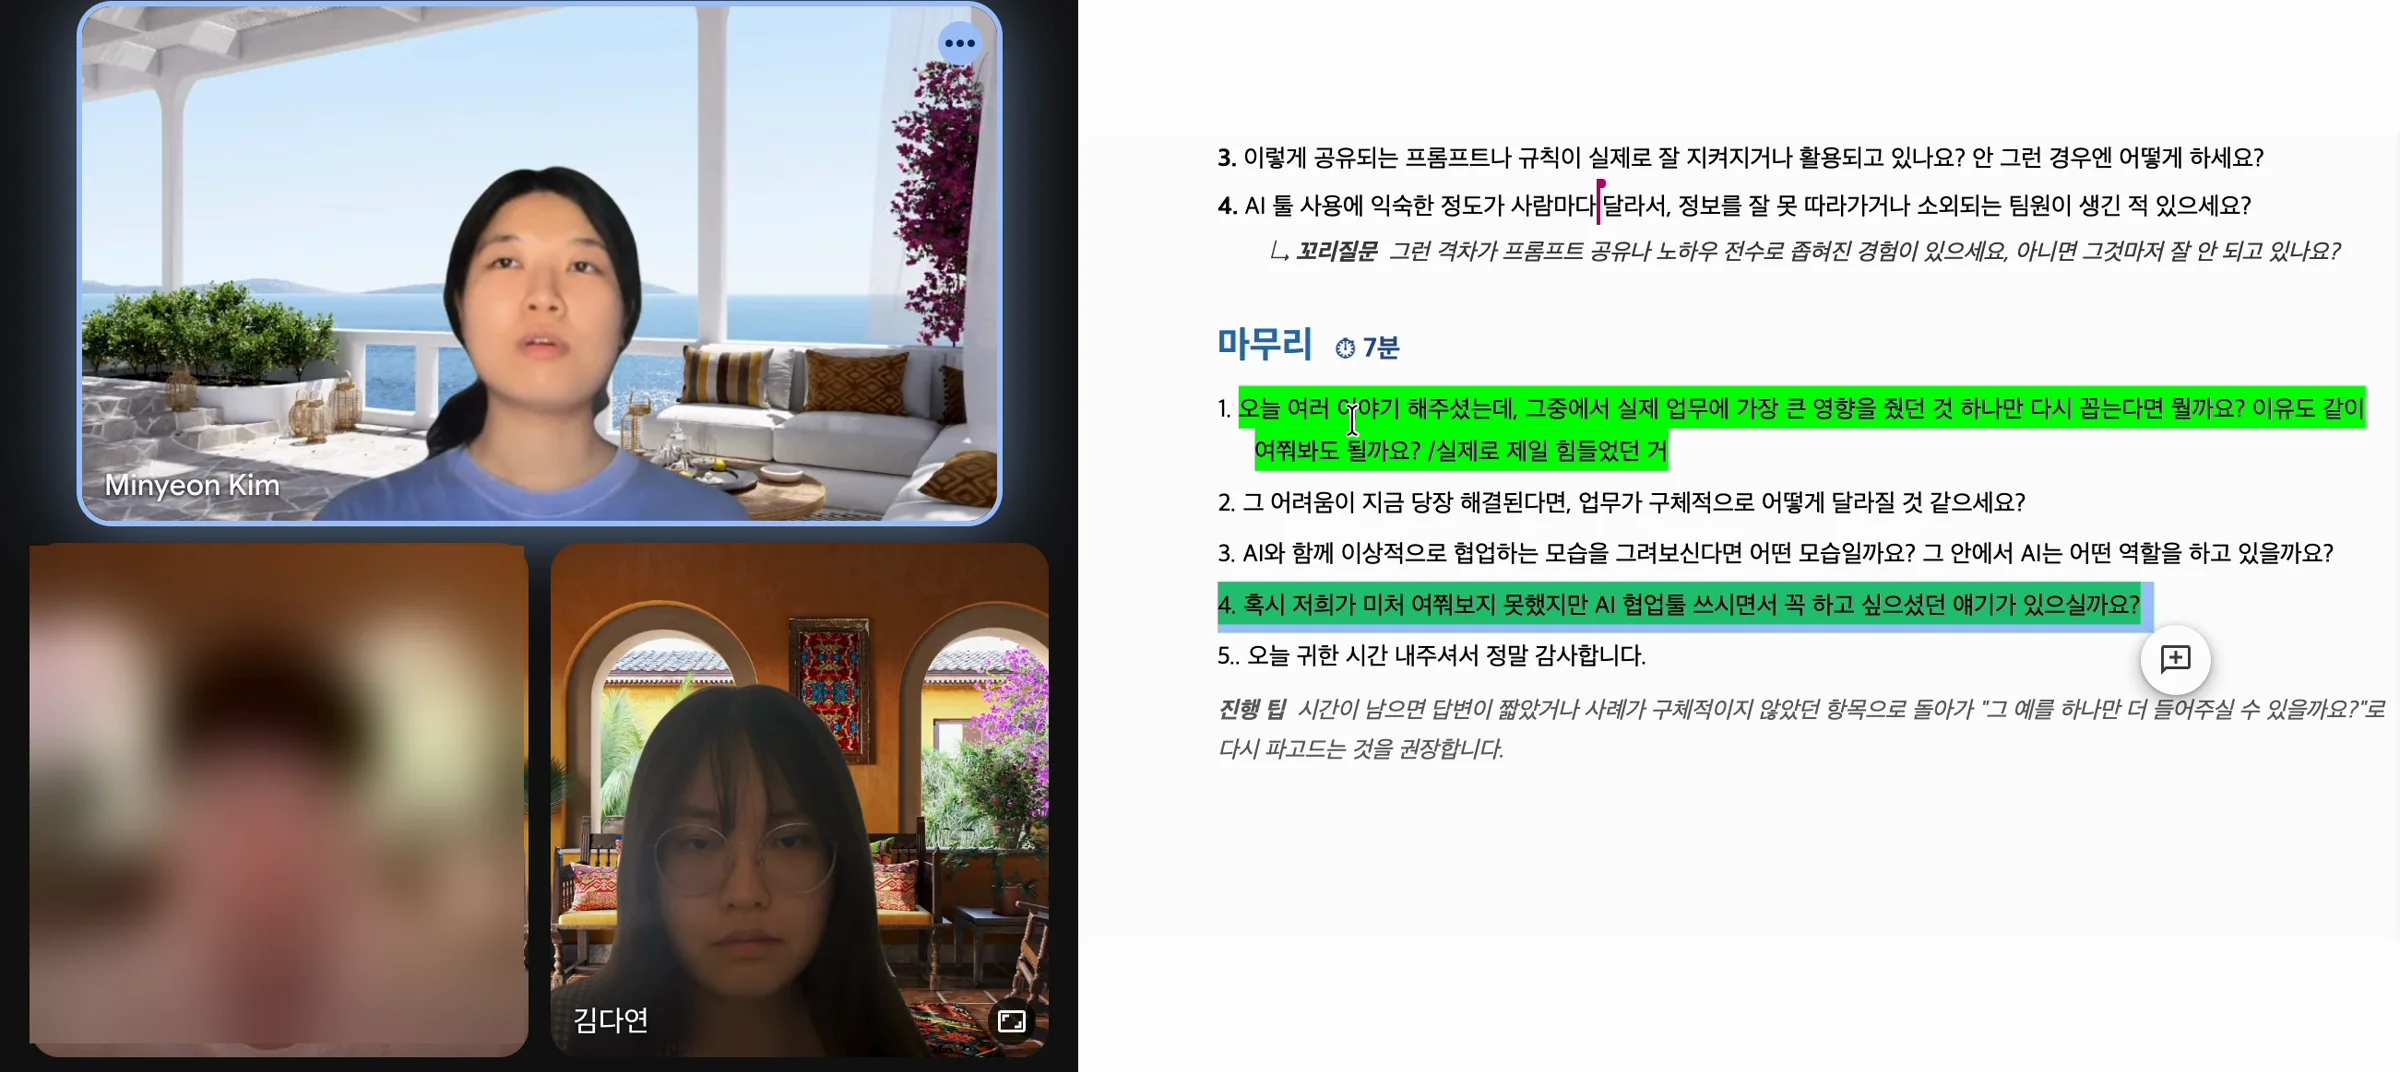
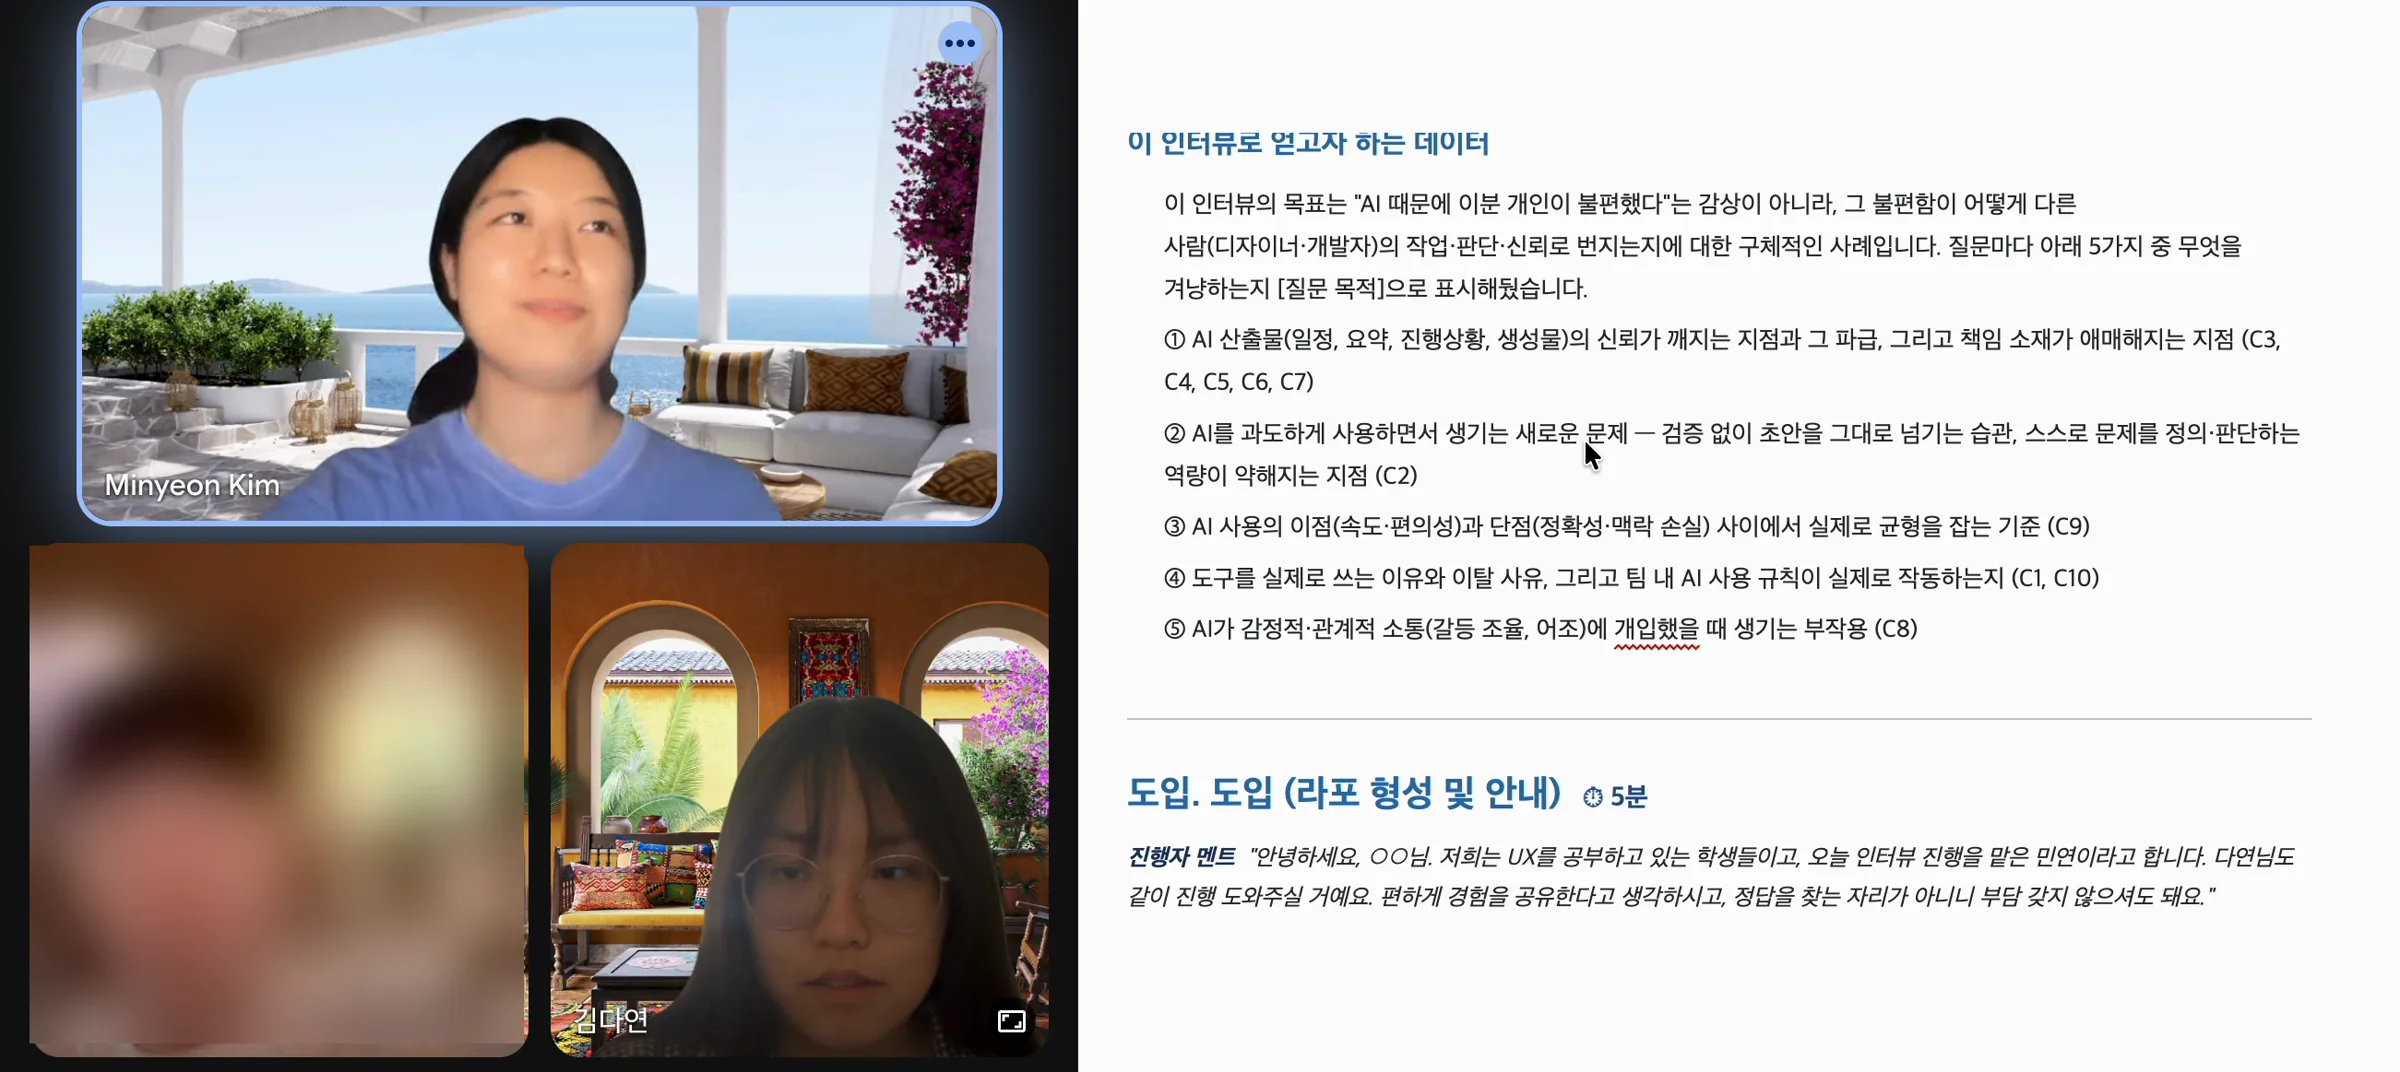
Devsign interview image: smiling moment, guide's research aims beside it

diff --git a/claude.md b/claude.md
@@ -1186,5 +1186,5 @@ Devsign user flow is one main path (owner: 21 equal boxes still weren't easy; re
 
 Review pass against references (2026-11-04; owner skipped role split and resume for now, not ready). Text never depends on scroll position: scroll-linked opacity and fill are off for funnel, community columns, Analysis sentences, research questions and headlines (blocks arrive once through the reveal units, which supersedes the statement fill and the row and count scroll notes); parallax and the board and photo scroll grows are off too. Still tied to scroll: stage opening, section title (done once fully on screen), data bars, Problem statement scale, pinned reels and Iteration 2. Stage nav steps aside while scrolling down and returns on any scroll up (`data-away`, keyboard focus keeps it). What isn't current drops to the muted colour, never to low opacity, so it stays AA (Key problem rows, core feature sentences; supersedes the 55% and 0.28 values). Landing: the first case's card shows by default on desktop too (not over About hover or the portrait); phones paint the headline at once with no typing or scramble (typing needs JS and held LCP back; supersedes the scramble rule below 48rem); dust starts when the page is idle, on phones 1.2s after load; only the case opener preloads its loop. Process boards dim in the dark theme (value canvas, affinity board), the tool table's "What we didn't find" is a tint, the Takeaway photo is 640px, stage padding 160 (phones 96), About's deck 220-300px. Phones: the IA shows nodes only, affinity themes show name and insight without stickies, pills are opaque. Korean Devsign block labels are in Korean; chapter names stay English. Figma not updated.
 
-Devsign interview image is a real capture from the 2026-08-24 20:02 recording at 37:19, a moment with the moderators' eyes open (~/Movies/인터뷰_UT_녹화본, kept outside the repo; naming project_type_date_time, KST): Meet tiles beside the question guide, 2400×1072, browser chrome, meeting title and storage banner cropped out. Only the participant's tile and name are blurred (owner's call); Minyeon and 김다연 are shown. Replaces the earlier example image. Figma not updated.
+Devsign interview image is a real capture from the 2026-08-24 20:02 recording at 1:35, a moment with Minyeon smiling (her eyes open; 김다연 looks down, no moment found with both smiling), beside the guide's research aims and opening script (~/Movies/인터뷰_UT_녹화본, kept outside the repo; naming project_type_date_time, KST): Meet tiles beside the question guide, 2400×1072, browser chrome, meeting title and storage banner cropped out. Only the participant's tile and name are blurred (owner's call); Minyeon and 김다연 are shown. Replaces the earlier example image. Figma not updated.
 
